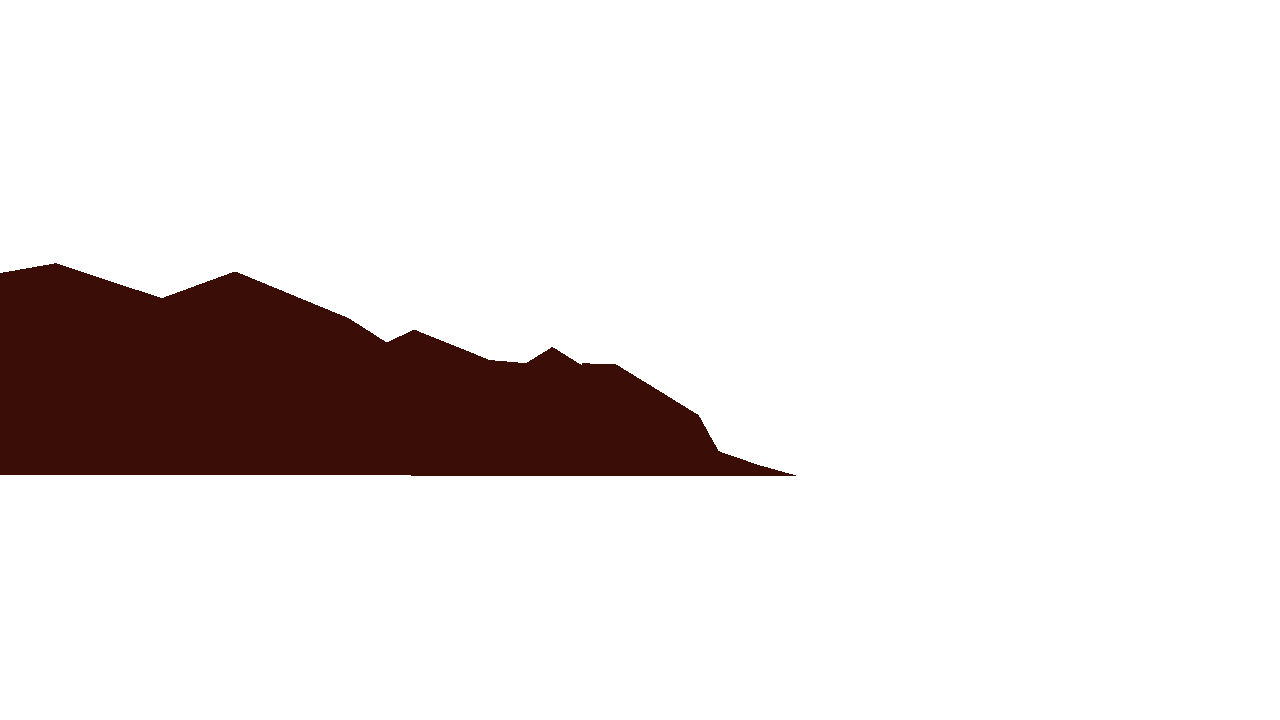
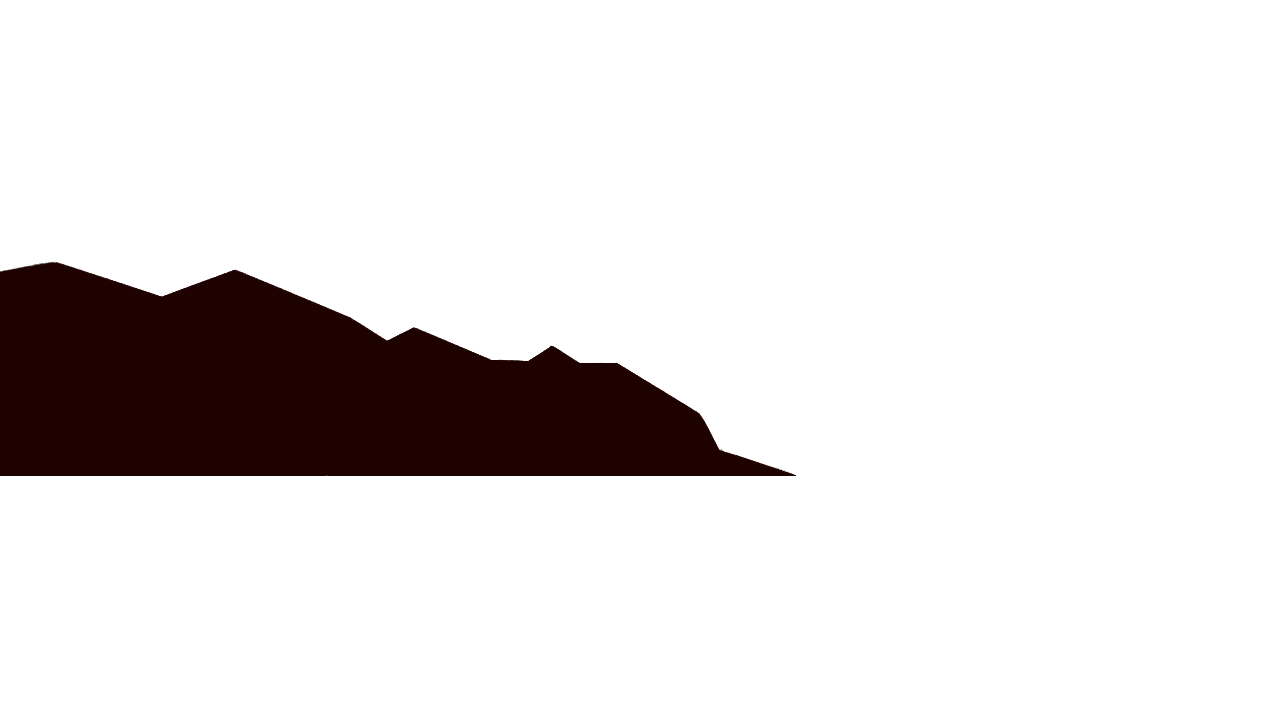
Proj_2 07/09/24
Code finished (except bug fixing), finishing images to load in on seperate program.

Changed region(s): [[0.0, 0.3667, 0.625, 0.6722]]

diff --git a/music_starter.js b/music_starter.js
@@ -3,27 +3,28 @@
 let img;
 var x = 0
 let firstRun = true
-let Hen = map(vocal,0,100,1,4);
-let Arc = map(drum,0,100,1,4);
-let Cla = map(other,0,100,1,4);
-let Oti = map(bass,0,100,1,4);
-
 
 function draw_one_frame(words, vocal, drum, bass, other, counter) {
   if (firstRun){
   img1 = loadImage('MtBack.png');
   img2 = loadImage('MtMid.png');
   img3 = loadImage('MtFore.png');
-  Hen_1 = loadImage('Henry.png');
-  Arc_1 = loadImage('Archie.png');
-  Cla_1 = loadImage('Clarke.png');
-  Oti_1 = loadImage('Otis.png')
+  Drums = loadImage('drums.png')
+  Hen_0 = loadImage('Henry_0.png');
+  Hen_1 = loadImage('Henry_1.png');
+  Hen_2 = loadImage('Henry_2.png');
+  Arc_0 = loadImage('Archie_0.png');
+  Arc_1 = loadImage('Archie_1.png')
+  Arc_2 = loadImage('Archie_2.png')
+  Arc_3 = loadImage('Archie_3.png');
+  Cla_0 = loadImage('Clarke_0.png');
+  Cla_1 = loadImage('Clarke_1.png');
+  Cla_2 = loadImage('Clarke_2.png');
+  Oti_0 = loadImage('Otis_0.png')
+  Oti_1 = loadImage('Otis_1.png')
+  Oti_2 = loadImage('Otis_2.png')
   firstRun = false}
   
-  let Hen = map(vocal,0,100,0,4);
-  let Arc = map(drum,0,100,0,4);
-  let Cla = map(other,0,100,0,4);
-  let Oti = map(bass,0,100,0,4);
 
   background(248,146,121)
   
@@ -36,16 +37,38 @@ function draw_one_frame(words, vocal, drum, bass, other, counter) {
   fill(215,70,70)
   rect(0,500,1280,300)
 
-  let Shake = map(drum,0,100,40,60)
+  let Shake = map(other,0,100,40,70)
   image(img1,0,Shake)
   image(img2,0,Shake)
-  image(img3,0,Shake - 5)
+  image(img3,0,Shake - 5);
 
+  let Hen = map(vocal,0,100,0,4);
+  let Arc = map(drum,0,100,0,4);
+  let Cla = map(other,0,100,0,4);
+  let Oti = map(bass,0,100,0,4);
 
-  if (Hen < 2){image(Hen_1,640,220)}
-  if (Arc < 2){image(Arc_1,320,180)}
-  if (Oti < 2){image(Oti_1,960,200)}
-  if (Cla < 2){image(Cla_1,20,200)}
+  //Archie if statements
+  if (counter < 308){image(Arc_0,320,180)}
+  if (Arc < 2){image(Arc_1,200,170)}
+  if (2 <= Arc <= 3){image(Arc_2,200,170)}
+  if (Arc > 3){image(Arc_3,200,170)}
+  image(Drums,0,-20)
+
+  //Otis if statements
+  if (Oti < 2){image(Oti_0,960,200)}
+  if (2 <= Oti <= 3){image(Oti_1,960,200)}
+  if (Oti > 3){image(Oti_2,960,200)}
+
+  //Henry if statements
+  if (Hen < 2){image(Hen_0,640,220)}
+  if (2 <= Hen <= 3){image(Hen_1,640,220)}
+  if (Hen > 3){image(Hen_2,640,220)}
+
+  //Clarke if statements
+  if (Cla < 2){image(Cla_0,20,200)}
+  if (2 <= Cla <= 3){image(Cla_1,20,200)}
+  if (Cla > 3){image(Cla_2,20,200)}
+
 }
 
 
